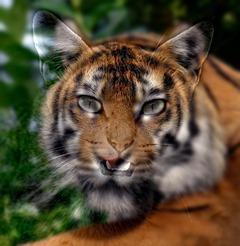
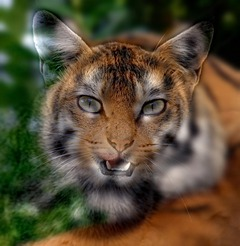
proj2: tiger + cat low-pass σ 11, learned section expanded, yin-yang band-4 sentence corrected

diff --git a/280a/proj2/index.html b/280a/proj2/index.html
@@ -397,7 +397,7 @@ cat_aligned = warp(cat, t.inverse, output_shape=derek.shape[:2], mode=&quot;edge
         <h2>Part 2.2 · More hybrids</h2>
       </header>
       <div class="prose">
-        <p><b>Tiger and cat.</b> Tigers and cats have the same face layout, so once the eyes line up nearly everything else does too. With the tiger as the low (σ = 7) and the cat as the high (σ = 9), you see a hissing tabby up close and a tiger at one eighth size. The cat's ears still show from a distance, because an outline against a dark background is a strong edge at every scale. This is my favourite result, so its spectra are below. Both spectra look about the same in every direction, since fur has no preferred direction. The low-pass leaves a small disc and the high-pass leaves a dark hole in the centre.</p>
+        <p><b>Tiger and cat.</b> Tigers and cats have the same face layout, so once the eyes line up nearly everything else does too. With the tiger as the low (σ = 11) and the cat as the high (σ = 9), you see a hissing tabby up close and a tiger at one eighth size. The cat's ears still show from a distance, because an outline against a dark background is a strong edge at every scale. This is my favourite result, so its spectra are below. Both spectra look about the same in every direction, since fur has no preferred direction. The low-pass leaves a small disc and the high-pass leaves a dark hole in the centre.</p>
       </div>
       <div class="row" style="--n:3">
         <figure><img src="images/hybrid/tiger-cat-low-input.jpg" loading="lazy" decoding="async" alt="Tiger. Low-frequency picture" width="960" height="986"><figcaption><b>Tiger</b>Low-frequency picture</figcaption></figure>
@@ -407,7 +407,7 @@ cat_aligned = warp(cat, t.inverse, output_shape=derek.shape[:2], mode=&quot;edge
       <div class="row keep" style="--n:5">
         <figure><img src="images/hybrid/tiger-cat-fft-low-input.jpg" loading="lazy" decoding="async" alt="Tiger. log |FFT|" width="960" height="986"><figcaption><b>Tiger</b>log |FFT|</figcaption></figure>
         <figure><img src="images/hybrid/tiger-cat-fft-high-input.jpg" loading="lazy" decoding="async" alt="Cat. " width="960" height="986"><figcaption><b>Cat</b></figcaption></figure>
-        <figure><img src="images/hybrid/tiger-cat-fft-low.jpg" loading="lazy" decoding="async" alt="Low-pass. σ = 7" width="960" height="986"><figcaption><b>Low-pass</b>σ = 7</figcaption></figure>
+        <figure><img src="images/hybrid/tiger-cat-fft-low.jpg" loading="lazy" decoding="async" alt="Low-pass. σ = 11" width="960" height="986"><figcaption><b>Low-pass</b>σ = 11</figcaption></figure>
         <figure><img src="images/hybrid/tiger-cat-fft-high.jpg" loading="lazy" decoding="async" alt="High-pass. σ = 9" width="960" height="986"><figcaption><b>High-pass</b>σ = 9</figcaption></figure>
         <figure><img src="images/hybrid/tiger-cat-fft-hybrid.jpg" loading="lazy" decoding="async" alt="Hybrid. " width="960" height="986"><figcaption><b>Hybrid</b></figcaption></figure>
       </div>
@@ -588,7 +588,7 @@ def laplacian_stack(im, levels, sigma0=1.0):
         <figure><img src="images/blend/yinyang-6-levels.jpg" loading="lazy" decoding="async" alt="6 levels. Widest σ = 32: the dots fade" width="800" height="800"><figcaption><b>6 levels</b>Widest σ = 32: the dots fade</figcaption></figure>
       </div>
       <div class="prose">
-        <p><b>The process, as in figure 10 of the paper.</b> Bands 0, 2 and 4 of each masked input and their sum, then all five bands added up. In band 0 the curve and the dots have hard edges. By band 4 each planet is a soft glow with no outline, and the dots have all but gone, which is why one more level makes them fade.</p>
+        <p><b>The process, as in figure 10 of the paper.</b> Bands 0, 2 and 4 of each masked input and their sum, then all five bands added up. In band 0 the curve and the dots have hard edges. By band 4 each planet is a soft glow with no outline and the dots are faint blobs. One more level blurs the dots' mask almost flat, which is why they fade with six levels.</p>
       </div>
       <div class="row keep" style="--n:3">
         <figure><img src="images/blend/yinyang-fig-0-a.jpg" loading="lazy" decoding="async" alt="Band 0 · finest. Earth × mask" width="800" height="800"><figcaption><b>Band 0 · finest</b>Earth × mask</figcaption></figure>
@@ -638,6 +638,8 @@ def laplacian_stack(im, levels, sigma0=1.0):
       </header>
       <div class="prose">
         <p>The convolution theorem: convolving an image with a filter is the same as multiplying their spectra. So I can use the frequency model of an image without ever computing its Fourier transform, just by convolving with well-known low-pass and high-pass filters.</p>
+        <p>Most of this project is that one idea. A Gaussian multiplies the spectrum by a bump around zero frequency, and the impulse minus a Gaussian multiplies it by one minus that bump. The unsharp mask multiplies the high frequencies by up to 1 + α. A hybrid keeps the centre of one spectrum and the outside of another, and a Laplacian stack cuts the spectrum into rings so the blend can join each ring over a different distance. I only computed Fourier transforms to check this, and the hybrid's spectrum looked the way the theory says it should: a disc from one picture inside a hole in the other.</p>
+        <p>It also explains why sharpening has a limit. When I blurred the wall and sharpened it again, the brush strokes did not come back. The blur had multiplied those frequencies by almost zero, and multiplying by 1 + α cannot undo that. A filter can only reweight the frequencies that are still in the image.</p>
       </div>
     </section>
   </main>
